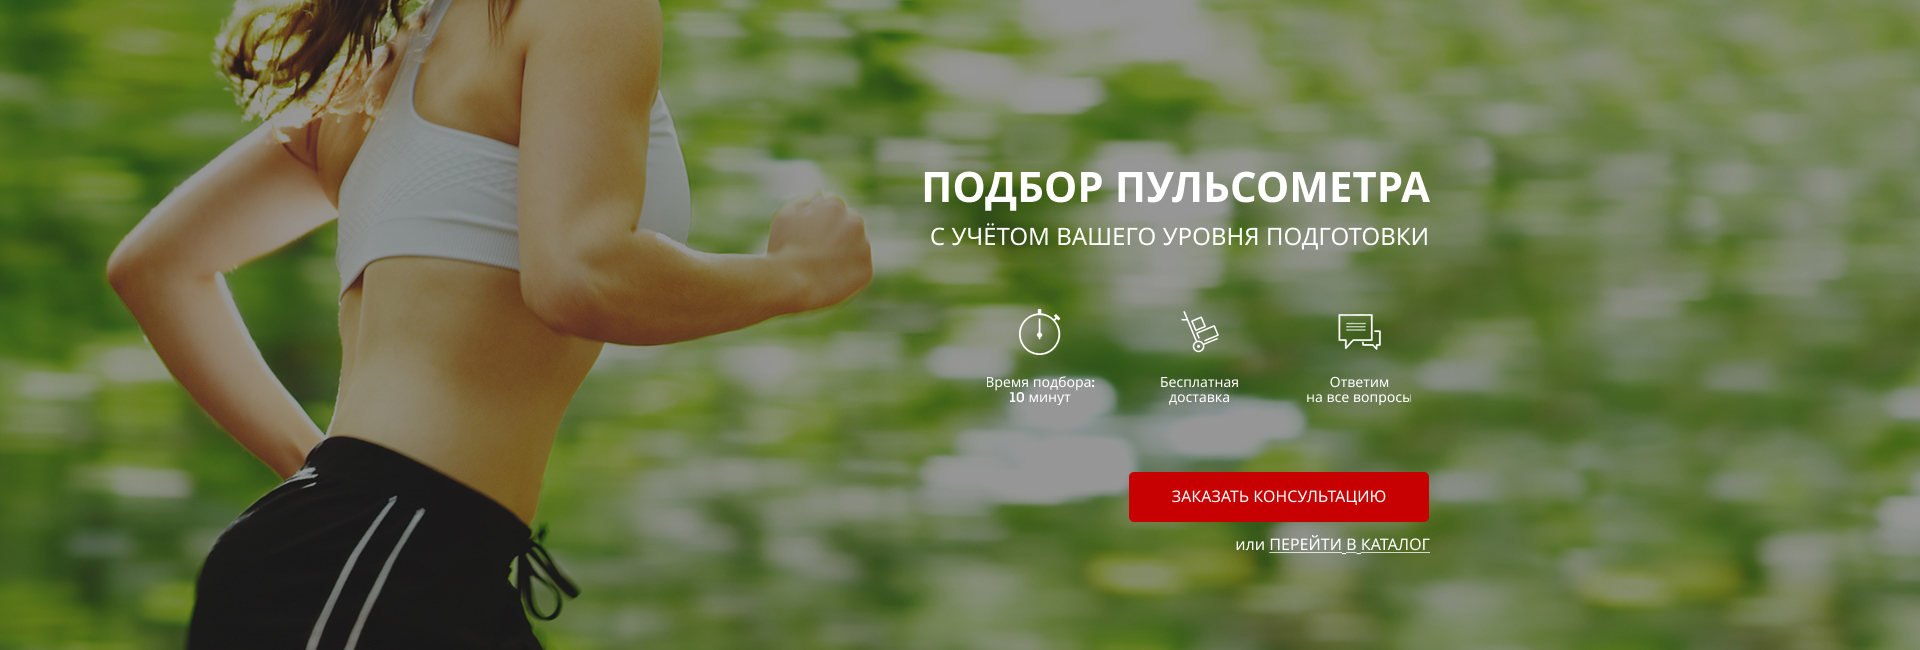
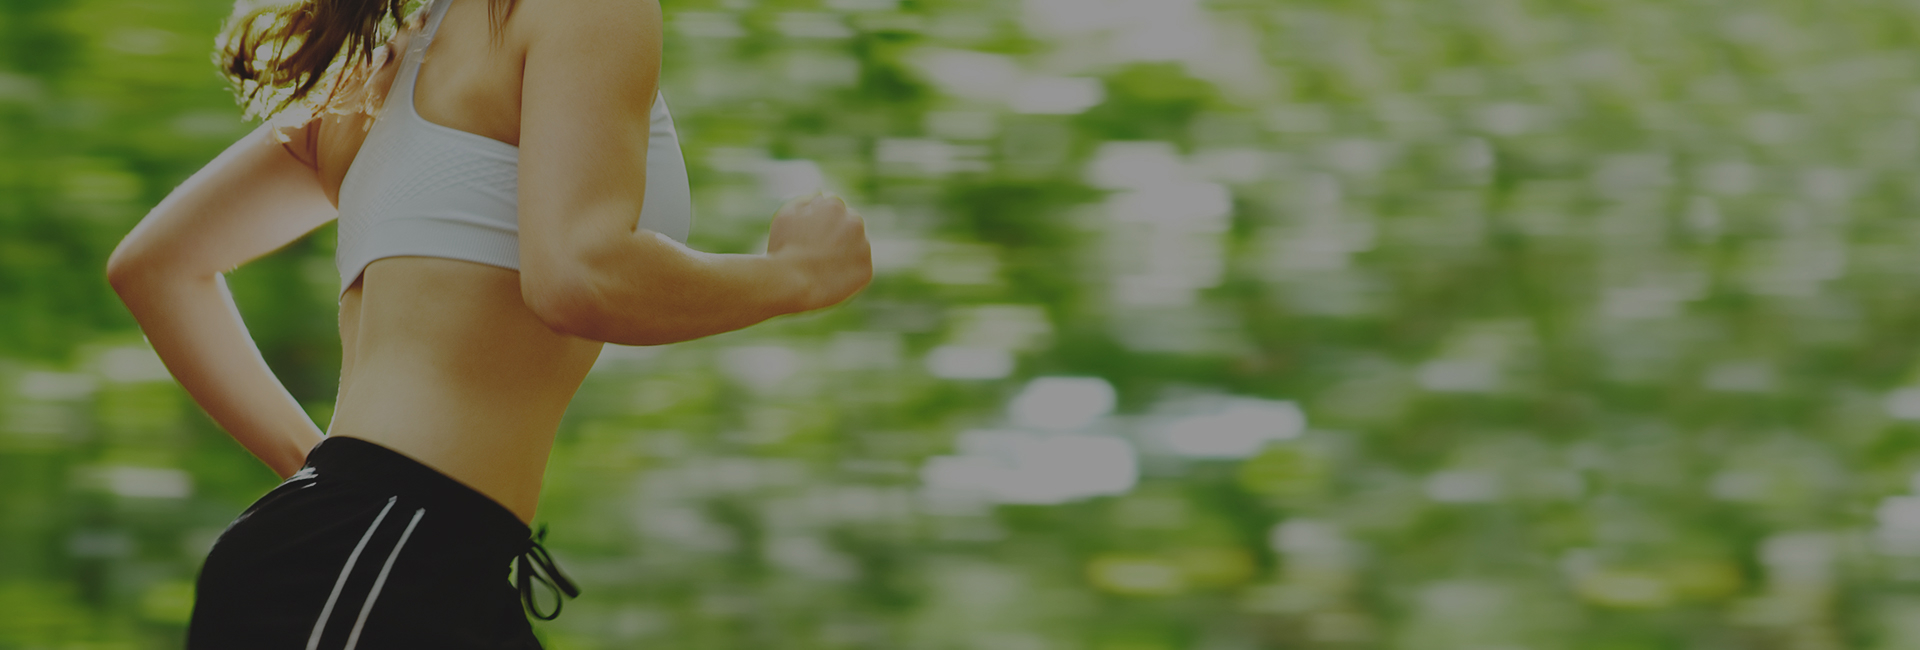
add promo section

diff --git a/src/index.html b/src/index.html
@@ -9,5 +9,89 @@
     <link rel="stylesheet" href="css/font.css" />
     <link rel="stylesheet" href="css/style.min.css" />
   </head>
-  <body></body>
+  <body>
+    <section class="promo">
+      <div class="container">
+        <header class="header">
+          <a href="#" class="header__logo">
+            <img src="icons/logo.png" alt="logo" />
+          </a>
+          <div class="header__offitial">
+            Официальный представитель
+            <span>Garmin, Polar, Suunto</span>
+          </div>
+          <div class="header__contacts">
+            <a href="tel:+74999228974" class="header__phone"
+              >+7 (499) 922-89-74</a
+            >
+            <button class="button">заказать звонок</button>
+          </div>
+        </header>
+        <div class="promo__wrapper">
+          <h1 class="promo__header">Подбор пульсометра</h1>
+          <h2 class="promo__subheader">с учётом Вашего уровня подготовки</h2>
+          <div class="promo__icons">
+            <div class="promo__icon">
+              <img src="icons/promo/icon_1.png" alt="icon_1" />
+              Время подбора:10 минут
+            </div>
+            <div class="promo__icon">
+              <img src="icons/promo/icon_2.png" alt="icon_2" />
+              Бесплатная доставка
+            </div>
+            <div class="promo__icon">
+              <img src="icons/promo/icon_3.png" alt="icon_3" />
+              Ответим на все вопросы
+            </div>
+          </div>
+          <button class="button button_promo">заказать кОНСУЛЬТАЦИЮ</button>
+          <div class="promo__link">или <a href="#">ПЕРЕЙТИ В КАТАЛОГ</a></div>
+        </div>
+      </div>
+    </section>
+    <section class="advantages">
+      <div class="container">
+        <h2 class="title">НАШИ ПРЕИМУЩЕСТВА</h2>
+        <div class="advantages__wrapper">
+          <div class="advantages__item">
+            <img
+              src="icons/advantages/icon_1.png"
+              alt="icon_1"
+              class="advantages__icon"
+            />
+            <h3 class="advantages__subtitle">Делимся опытом</h3>
+            <div class="advantages__desc">
+              Наши сотрудники всегда готовы поделиться своим опытом, так как
+              сами бегают полумарафоны, переплыли Босфор, готовятся к
+              соревнованиям по триатлону!
+            </div>
+          </div>
+          <div class="advantages__item">
+            <img
+              src="icons/advantages/icon_2.png"
+              alt="icon_2"
+              class="advantages__icon"
+            />
+            <h3 class="advantages__subtitle">Заботимся о здоровье</h3>
+            <div class="advantages__desc">
+              Мы работаем для того, чтобы Ваши занятия спортом шли на пользу
+              Вашему здоровью и были в радость Вам и Вашим близким!
+            </div>
+          </div>
+          <div class="advantages__item">
+            <img
+              src="icons/advantages/icon_3.png"
+              alt="icon_3"
+              class="advantages__icon"
+            />
+            <h3 class="advantages__subtitle">Учимся бегать</h3>
+            <div class="advantages__desc">
+              Помогаем с обучением правильной технике бега! Дружим с крупнейшей
+              школой бега в России - <a href="#">I LOVE RUNNING</a>.
+            </div>
+          </div>
+        </div>
+      </div>
+    </section>
+  </body>
 </html>

diff --git a/src/css/style.min.css b/src/css/style.min.css
@@ -1,0 +1,1 @@
+.promo{min-height:650px;background:url(../img/bg/promo_bg.jpg) center center/cover no-repeat;padding:21px 0 90px 0}.promo__wrapper{display:flex;flex-direction:column;align-items:end;margin-top:90px}.promo__header{font-weight:700;font-size:42px;text-transform:uppercase;color:#fff}.promo__subheader{font-weight:500;font-size:24px;text-transform:uppercase;color:#fff}.promo__icons{margin-top:60px;width:424px;display:flex;justify-content:space-between;align-items:center}.promo__icon{width:133px;font-weight:500;font-size:14px;text-align:center;color:#fff}.promo__icon img{display:block;margin:0 auto}.promo__link{margin-top:8px;font-weight:500;font-size:16px;color:#fff}.promo__link a{color:#fff}.header{display:flex;justify-content:space-between;align-items:center}.header__logo{width:251px}.header__logo img{width:100%}.header__offitial{font-weight:500;font-size:12px;text-align:center;color:#fff}.header__offitial span{display:block;font-size:18px}.header__phone{font-weight:700;font-size:18px;color:#fff;display:block}.header__contacts{display:flex;flex-direction:column;align-items:flex-end}.button{width:153px;height:32px;background:#c70101;border-radius:5px;font-weight:500;font-size:12px;text-align:center;text-transform:uppercase;color:#fff;border:none}.button_promo{margin-top:65px;width:300px;height:50px;font-size:16px}.advantages{min-height:473px;background:#f6f6f6;padding:70px 0 65px 0}.advantages__wrapper{margin-top:60px;display:flex;justify-content:space-between}.advantages__item{width:273px}.advantages__icon{display:block;margin:0 auto}.advantages__subtitle{margin-top:35px;font-weight:700;font-size:18px;text-align:center;color:#0d0d0d}.advantages__desc{font-weight:300;font-size:14px;text-align:center;color:#0d0d0d}.advantages__desc a{color:red}.title{font-weight:700;font-size:30px;text-align:center;color:#0d0d0d}*{font-family:"Museo Sans ",sans-serif}.container{width:942px;margin:0 auto}@media(max-width:991px){.container{width:742px}.promo__header{font-size:35px}.promo__subheader{font-size:20px}.advantages__item{width:223px}}@media(max-width:767px){.container{width:550px}.header__logo{width:190px}.header__offitial{font-size:11px}.header__offitial span{font-size:15px}.header__phone{font-size:15px}.button{width:125px;font-size:11px}.button_promo{width:180px}.promo__header{font-size:30px}.promo__subheader{font-size:16px}.promo__icon img{width:35px}.promo__link{font-size:14px}.advantages__item{width:170px}.advantages__subtitle{font-size:14px}.advantages__desc{font-size:12px}}@media(max-width:575px){.container{width:300px}.header{flex-direction:column}.header__logo{width:190px}.header__offitial{margin-top:10px}.header__contacts{margin-top:10px}.promo__wrapper{align-items:center}.promo__header{font-size:23px}.promo__subheader{font-size:12px}.promo__icons{width:300px}.promo__icon{width:100px;font-size:11px}.title{font-size:20px}.advantages__wrapper{flex-direction:column}.advantages__item{width:273px;margin:0 auto}.advantages__subtitle{font-size:17px}.advantages__desc{font-size:14px}}

diff --git a/src/sass/_media.scss b/src/sass/_media.scss
@@ -1,0 +1,124 @@
+@media (max-width: 991px) {
+  .container {
+    width: 742px;
+  }
+  .promo {
+    &__header {
+      font-size: 35px;
+    }
+    &__subheader {
+      font-size: 20px;
+    }
+  }
+  .advantages {
+    &__item {
+      width: 223px;
+    }
+  }
+}
+@media (max-width: 767px) {
+  .container {
+    width: 550px;
+  }
+  .header {
+    &__logo {
+      width: 190px;
+    }
+    &__offitial {
+      font-size: 11px;
+      span {
+        font-size: 15px;
+      }
+    }
+    &__phone {
+      font-size: 15px;
+    }
+  }
+  .button {
+    width: 125px;
+    font-size: 11px;
+    &_promo {
+      width: 180px;
+    }
+  }
+  .promo {
+    &__header {
+      font-size: 30px;
+    }
+    &__subheader {
+      font-size: 16px;
+    }
+    &__icon {
+      img {
+        width: 35px;
+      }
+    }
+    &__link {
+      font-size: 14px;
+    }
+  }
+  .advantages {
+    &__item {
+      width: 170px;
+    }
+    &__subtitle {
+      font-size: 14px;
+    }
+    &__desc {
+      font-size: 12px;
+    }
+  }
+}
+@media (max-width: 575px) {
+  .container {
+    width: 300px;
+  }
+  .header {
+    flex-direction: column;
+    &__logo {
+      width: 190px;
+    }
+    &__offitial {
+      margin-top: 10px;
+    }
+    &__contacts {
+      margin-top: 10px;
+    }
+  }
+  .promo {
+    &__wrapper {
+      align-items: center;
+    }
+    &__header {
+      font-size: 23px;
+    }
+    &__subheader {
+      font-size: 12px;
+    }
+    &__icons {
+      width: 300px;
+    }
+    &__icon {
+      width: 100px;
+      font-size: 11px;
+    }
+  }
+  .title {
+    font-size: 20px;
+  }
+  .advantages {
+    &__wrapper {
+      flex-direction: column;
+    }
+    &__item {
+      width: 273px;
+      margin: 0 auto;
+    }
+    &__subtitle {
+      font-size: 17px;
+    }
+    &__desc {
+      font-size: 14px;
+    }
+  }
+}

diff --git a/src/sass/block/_promo.scss b/src/sass/block/_promo.scss
@@ -1,0 +1,50 @@
+.promo {
+  min-height: 650px;
+  background: url(../img/bg/promo_bg.jpg) center center/cover no-repeat;
+  padding: 21px 0 90px 0;
+  &__wrapper {
+    display: flex;
+    flex-direction: column;
+    align-items: end;
+    margin-top: 90px;
+  }
+  &__header {
+    font-weight: 700;
+    font-size: 42px;
+    text-transform: uppercase;
+    color: #ffffff;
+  }
+  &__subheader {
+    font-weight: 500;
+    font-size: 24px;
+    text-transform: uppercase;
+    color: #ffffff;
+  }
+  &__icons {
+    margin-top: 60px;
+    width: 424px;
+    display: flex;
+    justify-content: space-between;
+    align-items: center;
+  }
+  &__icon {
+    width: 133px;
+    font-weight: 500;
+    font-size: 14px;
+    text-align: center;
+    color: #ffffff;
+    img {
+      display: block;
+      margin: 0 auto;
+    }
+  }
+  &__link {
+    margin-top: 8px;
+    font-weight: 500;
+    font-size: 16px;
+    color: #ffffff;
+    a {
+      color: #ffffff;
+    }
+  }
+}

diff --git a/src/sass/block/_advantages.scss b/src/sass/block/_advantages.scss
@@ -1,0 +1,33 @@
+.advantages {
+  min-height: 473px;
+  background: #f6f6f6;
+  padding: 70px 0 65px 0;
+  &__wrapper {
+    margin-top: 60px;
+    display: flex;
+    justify-content: space-between;
+  }
+  &__item {
+    width: 273px;
+  }
+  &__icon {
+    display: block;
+    margin: 0 auto;
+  }
+  &__subtitle {
+    margin-top: 35px;
+    font-weight: 700;
+    font-size: 18px;
+    text-align: center;
+    color: #0d0d0d;
+  }
+  &__desc {
+    font-weight: 300;
+    font-size: 14px;
+    text-align: center;
+    color: #0d0d0d;
+    a {
+      color: #ff0000;
+    }
+  }
+}

diff --git a/src/sass/block/_header.scss b/src/sass/block/_header.scss
@@ -1,0 +1,32 @@
+.header {
+  display: flex;
+  justify-content: space-between;
+  align-items: center;
+  &__logo {
+    width: 251px;
+    img {
+      width: 100%;
+    }
+  }
+  &__offitial {
+    font-weight: 500;
+    font-size: 12px;
+    text-align: center;
+    color: #ffffff;
+    span {
+      display: block;
+      font-size: 18px;
+    }
+  }
+  &__phone {
+    font-weight: 700;
+    font-size: 18px;
+    color: #ffffff;
+    display: block;
+  }
+  &__contacts {
+    display: flex;
+    flex-direction: column;
+    align-items: flex-end;
+  }
+}

diff --git a/src/sass/block/_buttons.scss b/src/sass/block/_buttons.scss
@@ -1,0 +1,18 @@
+.button {
+  width: 153px;
+  height: 32px;
+  background: #c70101;
+  border-radius: 5px;
+  font-weight: 500;
+  font-size: 12px;
+  text-align: center;
+  text-transform: uppercase;
+  color: #ffffff;
+  border: none;
+  &_promo {
+    margin-top: 65px;
+    width: 300px;
+    height: 50px;
+    font-size: 16px;
+  }
+}

diff --git a/src/sass/style.scss b/src/sass/style.scss
@@ -1,0 +1,16 @@
+@import "base/variables";
+@import "base/mixins";
+@import "block/promo";
+@import "block/header";
+@import "block/buttons";
+@import "block/advantages";
+@import "block/titles";
+
+* {
+  font-family: "Museo Sans ", sans-serif;
+}
+.container {
+  width: 942px;
+  margin: 0 auto;
+}
+@import "_media";

diff --git a/src/sass/block/_titles.scss b/src/sass/block/_titles.scss
@@ -1,0 +1,6 @@
+.title {
+  font-weight: 700;
+  font-size: 30px;
+  text-align: center;
+  color: #0d0d0d;
+}

diff --git a/src/sass/base/_variables.scss b/src/sass/base/_variables.scss
@@ -1,0 +1,1 @@
+$main_color: #c70101;
